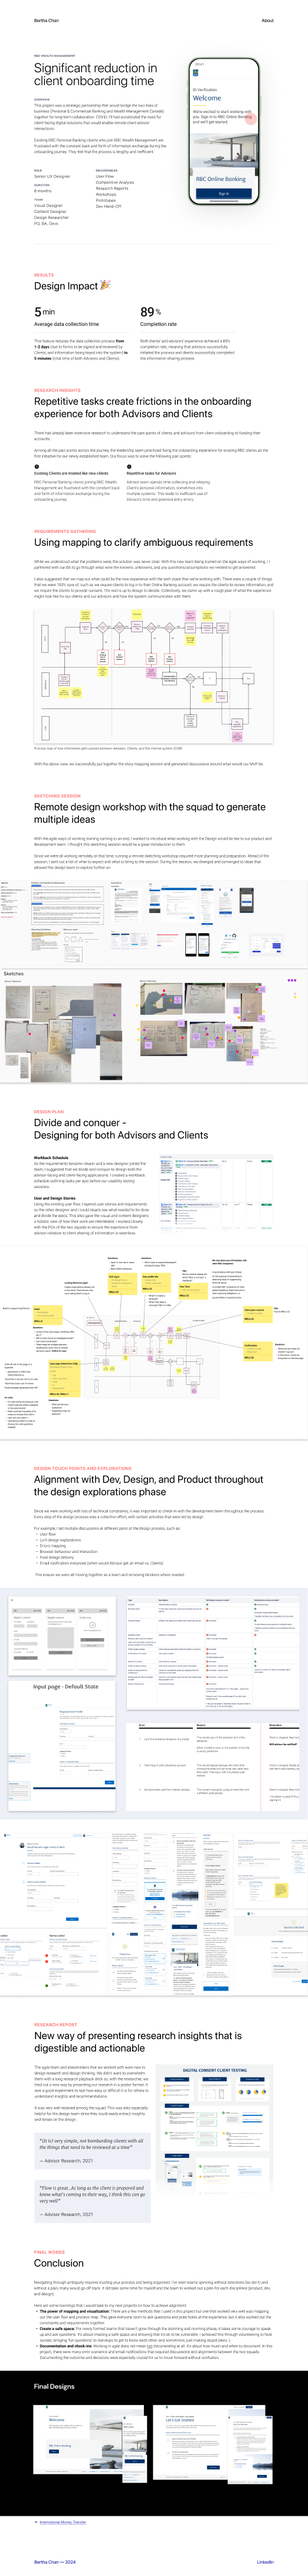
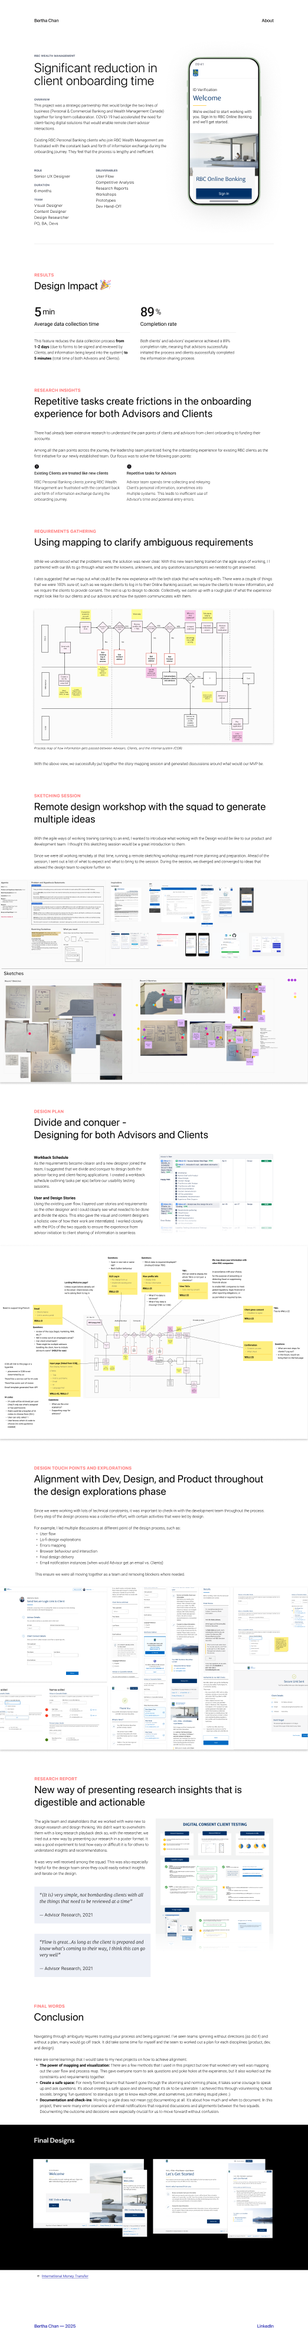
Add files via upload

diff --git a/data/story.js b/data/story.js
@@ -26,11 +26,11 @@ var story = {
    "image": "hold-policy.png",
    "index": 0,
    "width": 1440,
-   "height": 7689,
+   "height": 7486,
    "x": -1058,
    "y": 2204,
    "awidth": 1440,
-   "aheight": 7689,
+   "aheight": 7486,
    "ax": 0,
    "ay": 0,
    "protoOverflowV": false,
@@ -87,7 +87,7 @@ var story = {
      "name": "Footer Home",
      "rect": {
       "x": 160,
-      "y": 7617,
+      "y": 7414,
       "width": 270.82373046875,
       "height": 20
      },
@@ -109,7 +109,7 @@ var story = {
      "name": "Home",
      "rect": {
       "x": 1184,
-      "y": 7617,
+      "y": 7414,
       "width": 96,
       "height": 20
      },
@@ -128,9 +128,9 @@ var story = {
     {
      "name": "Pagination Next",
      "rect": {
-      "x": 929,
+      "x": 875,
       "y": 7200,
-      "width": 348,
+      "width": 402,
       "height": 32
      },
      "index": 4,
@@ -299,28 +299,6 @@ var story = {
        "tmpDestModal": false
       }
      ]
-    },
-    {
-     "name": "Frame 42384",
-     "rect": {
-      "x": 544,
-      "y": 2149,
-      "width": 352,
-      "height": 404
-     },
-     "index": 11,
-     "reactions": [
-      {
-       "action": "FRAME",
-       "navigationType": "NAVIGATE",
-       "trigger": "ON_CLICK",
-       "srcPageIndex": 1,
-       "frameIndex": 2,
-       "transAnimType": 0,
-       "transAnimDuration": 300,
-       "tmpDestModal": false
-      }
-     ]
     }
    ],
    "layout": null
@@ -332,11 +310,11 @@ var story = {
    "image": "comp-analysis.png",
    "index": 2,
    "width": 1440,
-   "height": 6881,
+   "height": 9265,
    "x": 598,
    "y": 2204,
    "awidth": 1440,
-   "aheight": 6881,
+   "aheight": 9265,
    "ax": 0,
    "ay": 0,
    "protoOverflowV": false,
@@ -353,7 +331,7 @@ var story = {
       "width": 270.82373046875,
       "height": 20
      },
-     "index": 12,
+     "index": 11,
      "reactions": [
       {
        "action": "FRAME",
@@ -375,7 +353,7 @@ var story = {
       "width": 96,
       "height": 20
      },
-     "index": 13,
+     "index": 12,
      "reactions": [
       {
        "action": "FRAME",
@@ -393,11 +371,11 @@ var story = {
      "name": "Footer Home",
      "rect": {
       "x": 160,
-      "y": 6809,
+      "y": 9193,
       "width": 270.82373046875,
       "height": 20
      },
-     "index": 14,
+     "index": 13,
      "reactions": [
       {
        "action": "FRAME",
@@ -415,11 +393,11 @@ var story = {
      "name": "Home",
      "rect": {
       "x": 1184,
-      "y": 6809,
+      "y": 9193,
       "width": 96,
       "height": 20
      },
-     "index": 15,
+     "index": 14,
      "reactions": [
       {
        "action": "URL",
@@ -435,11 +413,11 @@ var story = {
      "name": "Pagination Previous",
      "rect": {
       "x": 161,
-      "y": 6611,
+      "y": 9030.837890625,
       "width": 133,
       "height": 32
      },
-     "index": 16,
+     "index": 15,
      "reactions": [
       {
        "action": "FRAME",
@@ -484,7 +462,7 @@ var story = {
       "width": 270.82373046875,
       "height": 20
      },
-     "index": 17,
+     "index": 16,
      "reactions": [
       {
        "action": "FRAME",
@@ -506,7 +484,7 @@ var story = {
       "width": 96,
       "height": 20
      },
-     "index": 18,
+     "index": 17,
      "reactions": [
       {
        "action": "URL",
@@ -526,7 +504,7 @@ var story = {
       "width": 270.82373046875,
       "height": 20
      },
-     "index": 19,
+     "index": 18,
      "reactions": [
       {
        "action": "FRAME",
@@ -571,7 +549,7 @@ var story = {
       "width": 270.82373046875,
       "height": 20
      },
-     "index": 20,
+     "index": 19,
      "reactions": [
       {
        "action": "FRAME",
@@ -593,7 +571,7 @@ var story = {
       "width": 96,
       "height": 20
      },
-     "index": 21,
+     "index": 20,
      "reactions": [
       {
        "action": "FRAME",
@@ -615,7 +593,7 @@ var story = {
       "width": 270.82373046875,
       "height": 20
      },
-     "index": 22,
+     "index": 21,
      "reactions": [
       {
        "action": "FRAME",
@@ -637,7 +615,7 @@ var story = {
       "width": 96,
       "height": 20
      },
-     "index": 23,
+     "index": 22,
      "reactions": [
       {
        "action": "URL",
@@ -657,7 +635,7 @@ var story = {
       "width": 185,
       "height": 32
      },
-     "index": 24,
+     "index": 23,
      "reactions": [
       {
        "action": "FRAME",
@@ -681,11 +659,11 @@ var story = {
    "image": "onboarding.png",
    "index": 5,
    "width": 1440,
-   "height": 12014,
+   "height": 10916,
    "x": 3755,
    "y": 1177,
    "awidth": 1440,
-   "aheight": 12014,
+   "aheight": 10916,
    "ax": 0,
    "ay": 0,
    "protoOverflowV": false,
@@ -702,7 +680,7 @@ var story = {
       "width": 270.82373046875,
       "height": 20
      },
-     "index": 25,
+     "index": 24,
      "reactions": [
       {
        "action": "FRAME",
@@ -724,7 +702,7 @@ var story = {
       "width": 96,
       "height": 20
      },
-     "index": 26,
+     "index": 25,
      "reactions": [
       {
        "action": "FRAME",
@@ -742,11 +720,11 @@ var story = {
      "name": "Footer Home",
      "rect": {
       "x": 160,
-      "y": 11939,
+      "y": 10841,
       "width": 270.82373046875,
       "height": 20
      },
-     "index": 27,
+     "index": 26,
      "reactions": [
       {
        "action": "FRAME",
@@ -764,11 +742,11 @@ var story = {
      "name": "Home",
      "rect": {
       "x": 1184,
-      "y": 11939,
+      "y": 10841,
       "width": 96,
       "height": 20
      },
-     "index": 28,
+     "index": 27,
      "reactions": [
       {
        "action": "URL",
@@ -783,12 +761,12 @@ var story = {
     {
      "name": "Pagination Previous",
      "rect": {
-      "x": 150,
-      "y": 11749,
+      "x": 160,
+      "y": 10604,
       "width": 266,
       "height": 32
      },
-     "index": 29,
+     "index": 28,
      "reactions": [
       {
        "action": "FRAME",
@@ -808,7 +786,7 @@ var story = {
  ],
  "startPageIndex": 1,
  "totalImages": 6,
- "fileKey": "portfolio",
+ "fileKey": "2025portfolio",
  "groups": [
   {
    "id": "404:90",
